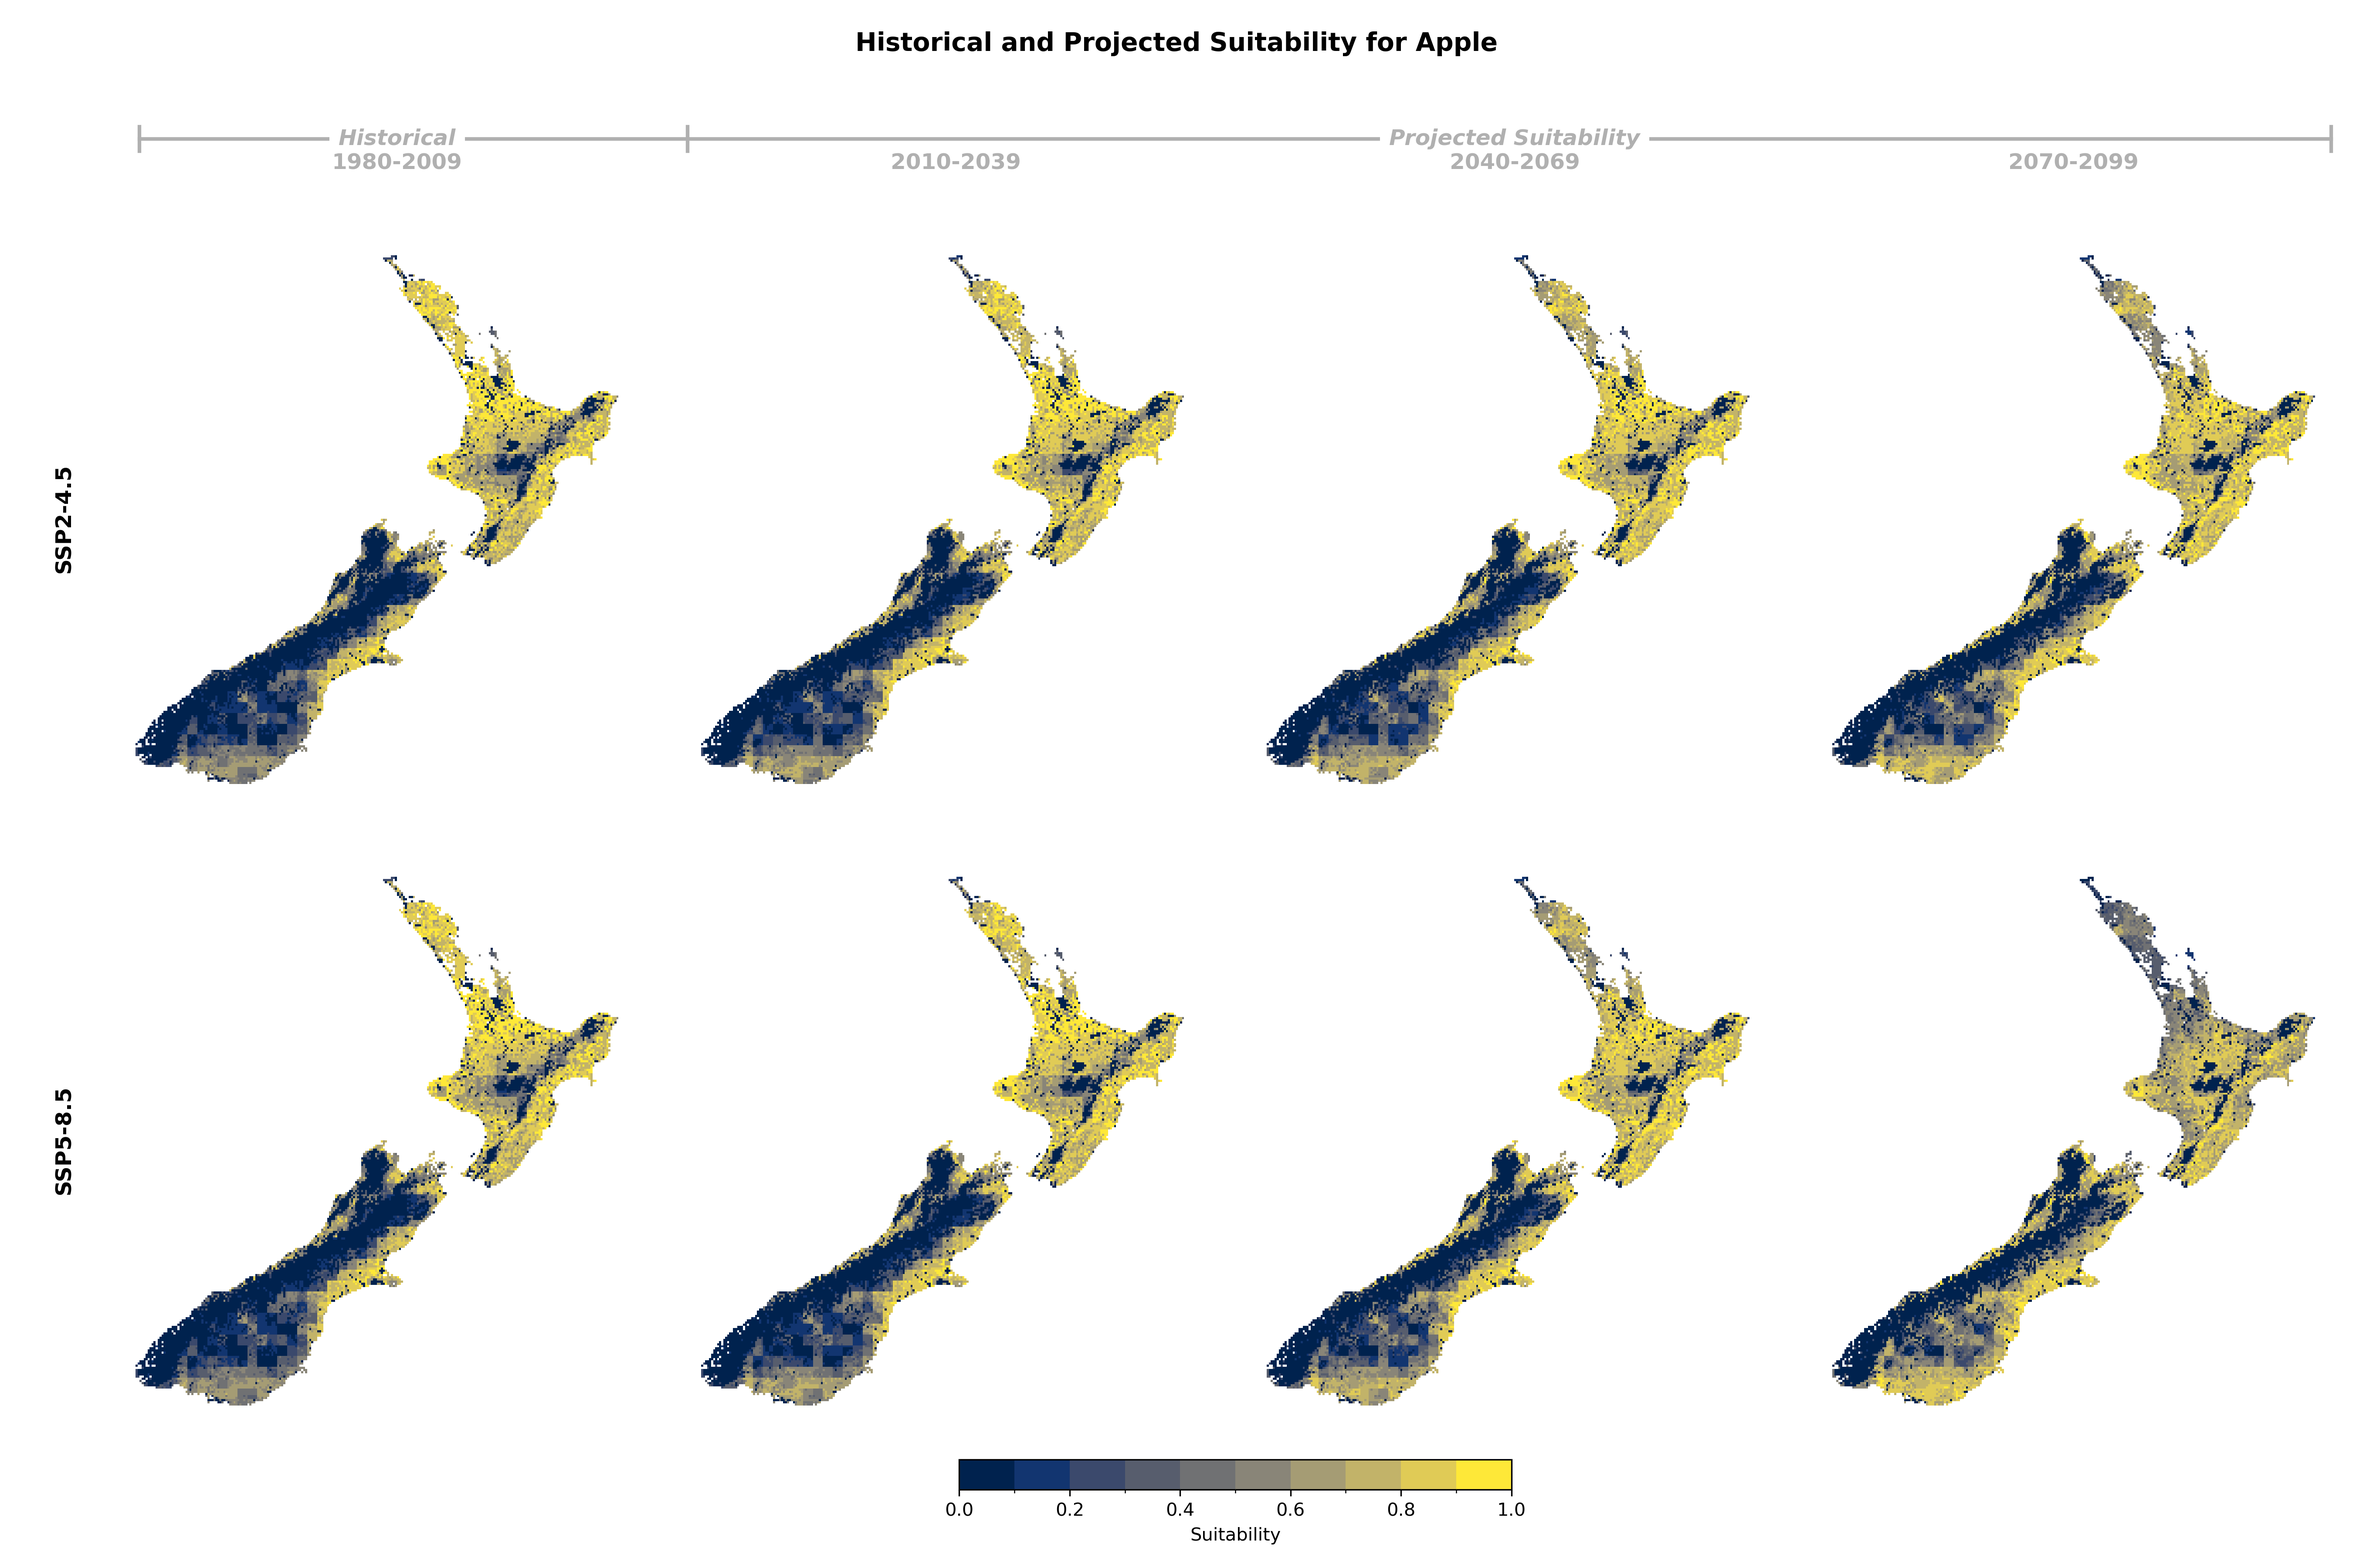
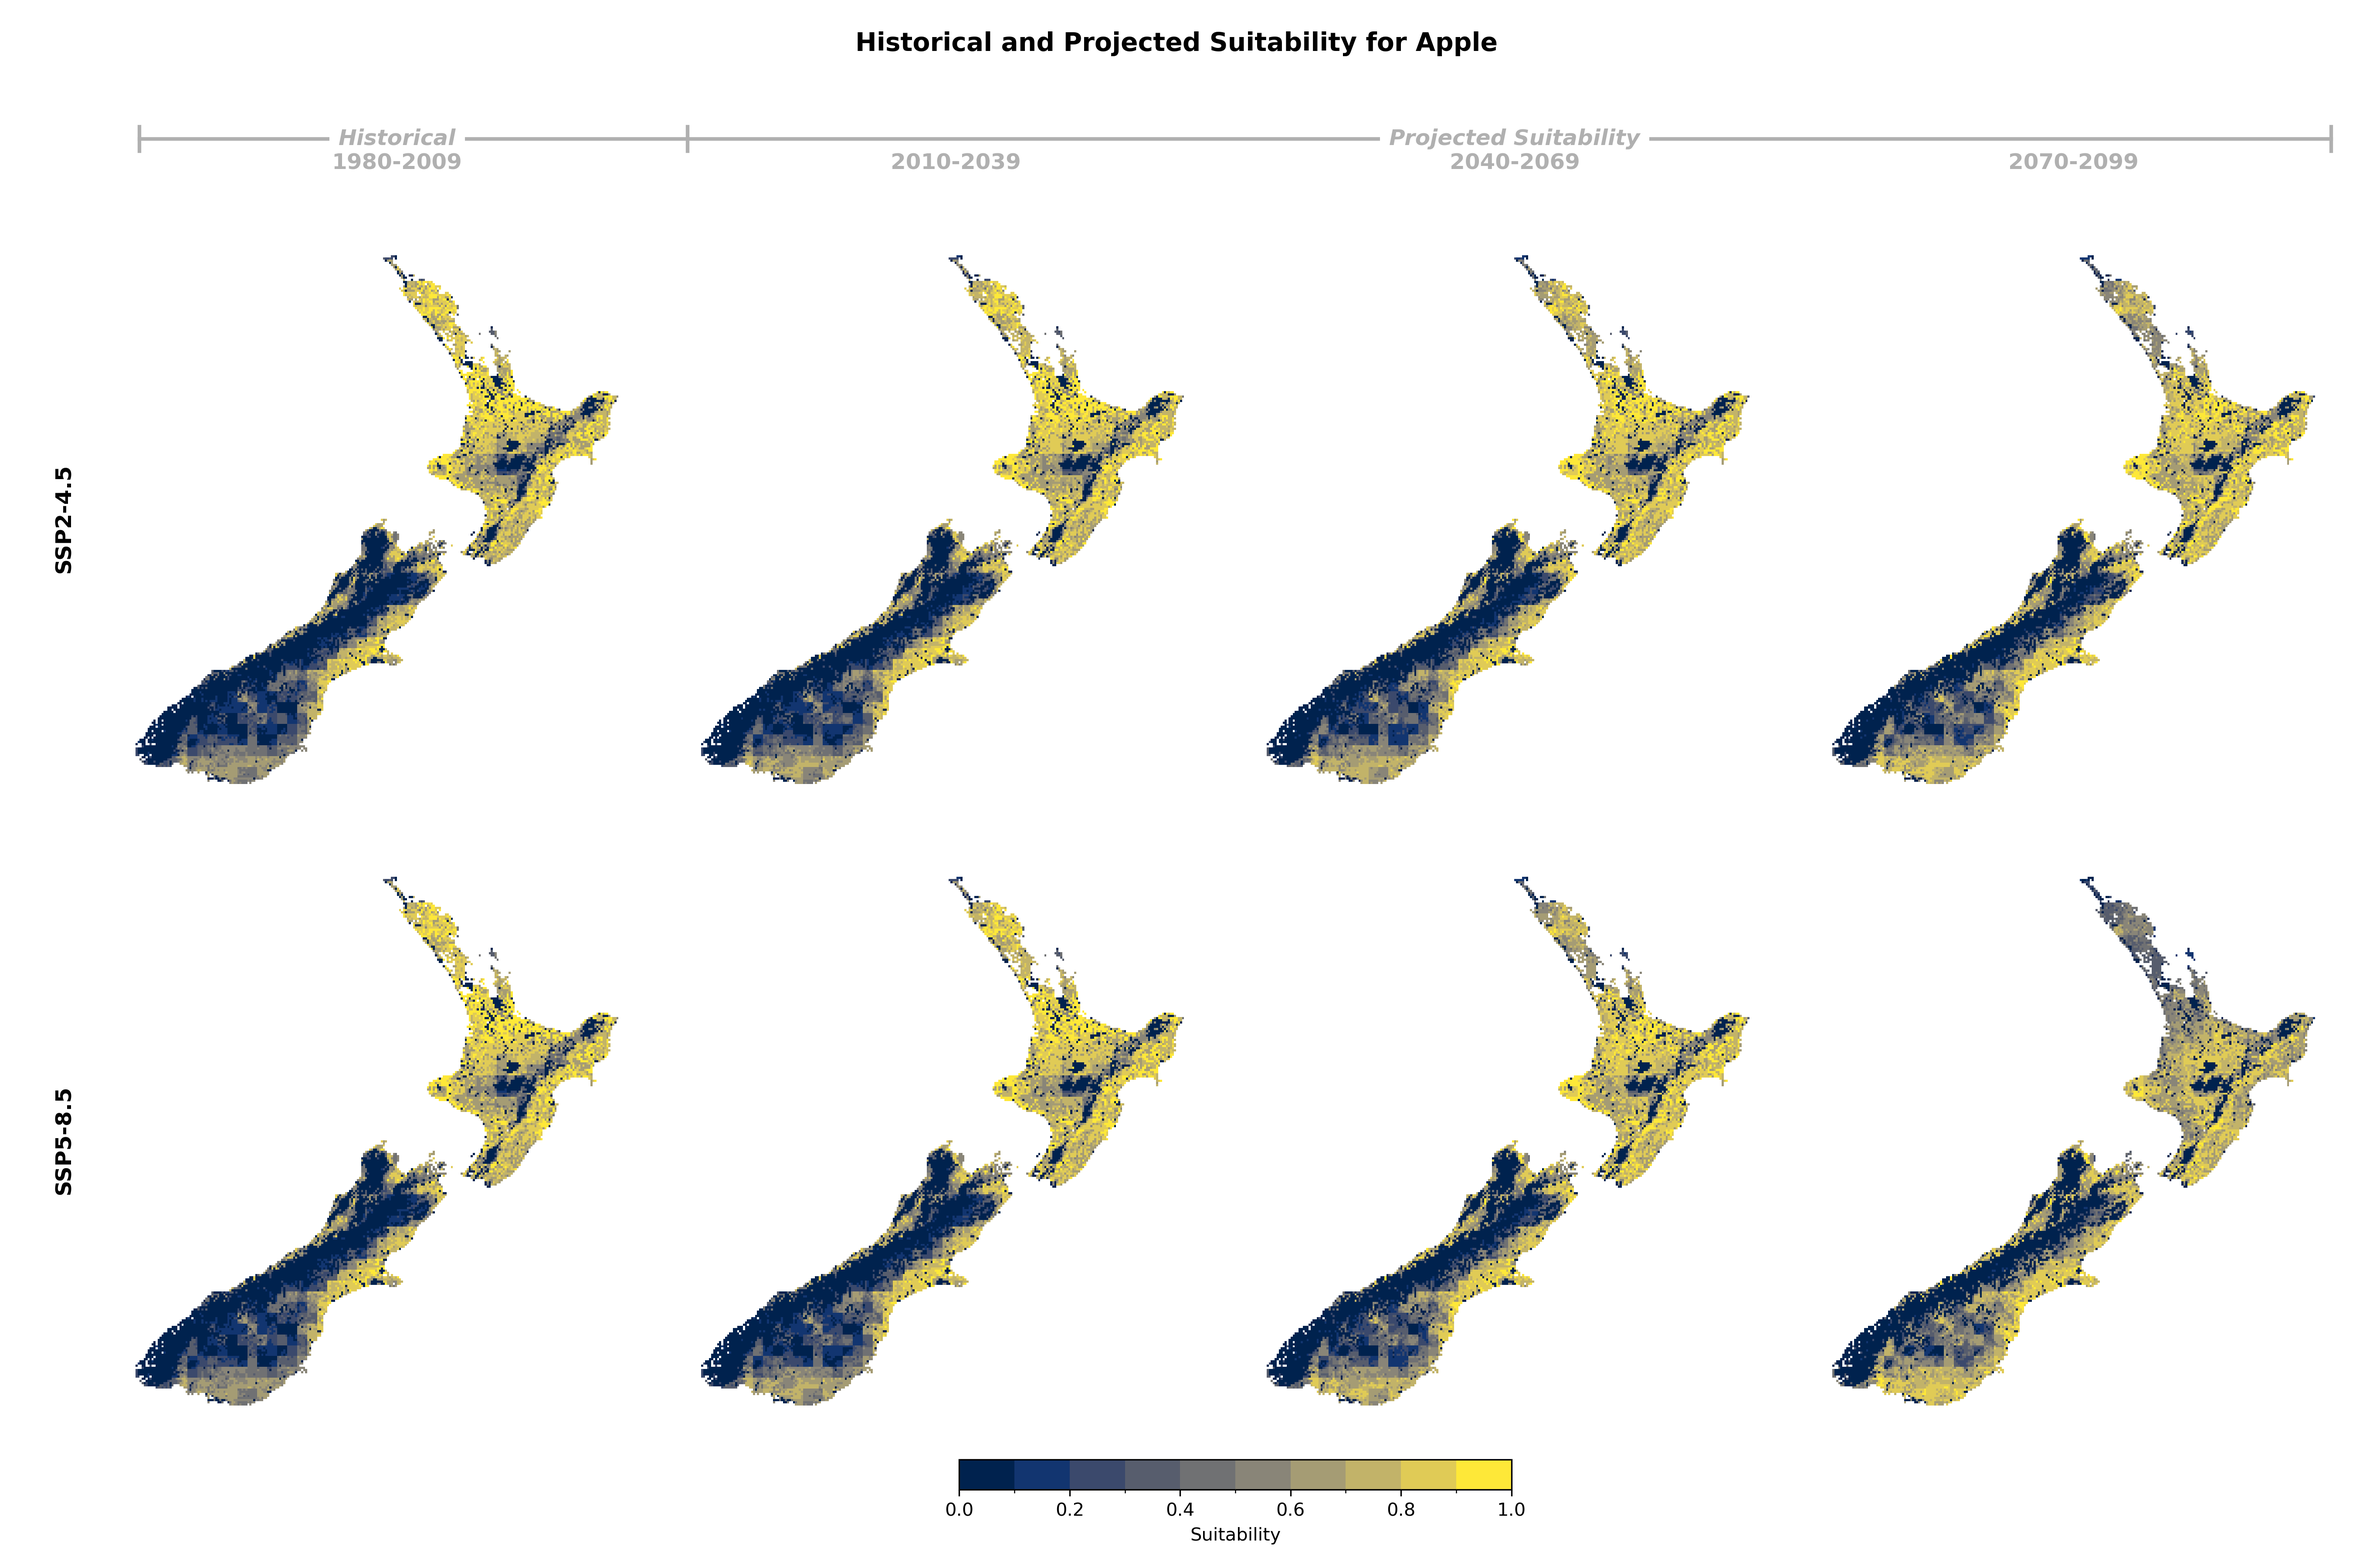
Add Apple 1km suitability

diff --git a/docs/landuses/apple.md b/docs/landuses/apple.md
@@ -8,11 +8,11 @@ title: Apple
 
 ### Suitability Values
 
-![](../_static/summary_figs/apple_suitability_SSP245-SSP585_5km_v1.0.png)
+![](../_static/summary_figs/apple_suitability_SSP245-SSP585_1km_v1.0.png)
 
 ### Suitability Changes
 
-![](../_static/summary_figs/apple_suitability_change_SSP245-SSP585_5km_v1.0.png)
+![](../_static/summary_figs/apple_suitability_change_SSP245-SSP585_1km_v1.0.png)
 
 :::
 
